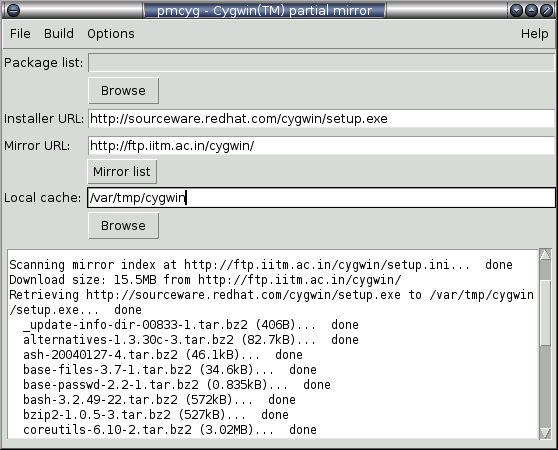
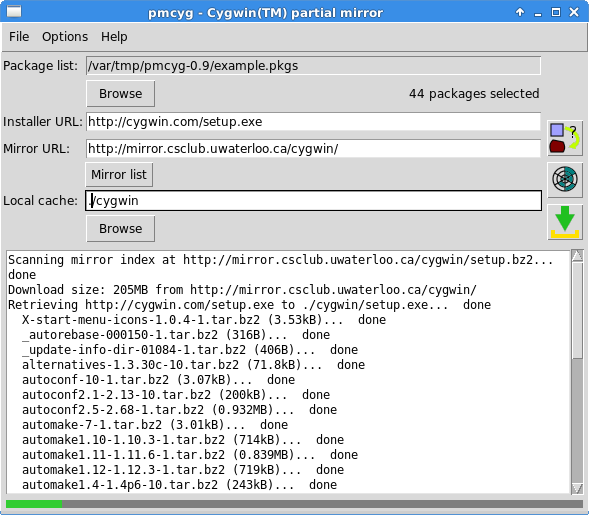
Updated URL of setup.exe to cygwin.com
Moved URL of setup.exe installer from sourceware.redhat.com to cygwin.com
Updated README.txt to include description of new GUI buttons.

diff --git a/pmcyg.py b/pmcyg.py
@@ -18,9 +18,9 @@
 
 PMCYG_VERSION = '0.9'
 
-DEFAULT_INSTALLER_URL = 'http://sourceware.redhat.com/cygwin/setup.exe'
+DEFAULT_INSTALLER_URL = 'http://cygwin.com/setup.exe'
 #DEFAULT_CYGWIN_MIRROR = 'ftp://cygwin.com/pub/cygwin/'
-DEFAULT_CYGWIN_MIRROR = 'http://cygwin.cict.fr'
+DEFAULT_CYGWIN_MIRROR = 'http://ftp.heanet.ie/pub/cygwin'
 
 
 import  bz2, optparse, os, os.path, re, subprocess, string, \
@@ -316,8 +316,11 @@ class PMbuilder(object):
         catlist.sort()
 
         def descfix(s):
-            return s.replace('\n', ' ').replace('\r', '')
+            if s:
+                return s.replace('\n', ' ').replace('\r', '')
             # s.replace more portable between python-2.x & 3.x than s.translate
+            else:
+                return '???'
 
         print >>stream, '# Package listing for pmcyg (Cygwin(TM) Partial Mirror)\n# Autogenerated on %s\n# from: %s\n' % ( time.asctime(), self.GetIniURL() )
         print >>stream, '# This file contains listings of cygwin package names, one per line.\n# Lines starting with \'#\' denote comments, with blank lines being ignored.\n# The dependencies of any package listed here should be automatically\n# included in the mirror by pmcyg.'
@@ -1311,7 +1314,7 @@ class TKgui(object):
 
         frm = Tk.Frame(rootwin)
         parampanel = self.mkParamPanel(frm)
-        parampanel.pack(side=Tk.LEFT, expand=True, fill=Tk.X)
+        parampanel.pack(side=Tk.LEFT, expand=True, fill=Tk.X, padx=4)
         btnpanel = self.mkButtonPanel(frm)
         btnpanel.pack(side=Tk.RIGHT, fill=Tk.Y)
         frm.grid(row=row, column=0, sticky=Tk.N+Tk.E+Tk.W)
@@ -1454,7 +1457,6 @@ class TKgui(object):
                                         command=self.doBuildMirror)
         self.btn_download.pack(side=Tk.BOTTOM, padx=xmargin, pady=ymargin)
 
-        # FIXME - wire-up these buttons
         self._img_allpkgs = GUIimagery.GetImage('allpkgs')
         self._img_userpkgs = GUIimagery.GetImage('userpkgs')
         allstate = self.builder.GetOption('AllPackages')
@@ -2105,6 +2107,8 @@ def ProcessPackageFiles(builder, pkgfiles):
         isofile = builder.GetOption('ISOfilename')
         if isofile:
             builder.BuildISO(isofile)
+    except Exception, ex:   # Treat separately for compatibility with Python-2.4
+        print >>sys.stderr, 'Fatal error during mirroring [%s]' % ( repr(ex) )
     except BaseException, ex:
         print >>sys.stderr, 'Fatal error during mirroring [%s]' % ( repr(ex) )
         #import traceback; traceback.print_exc()
